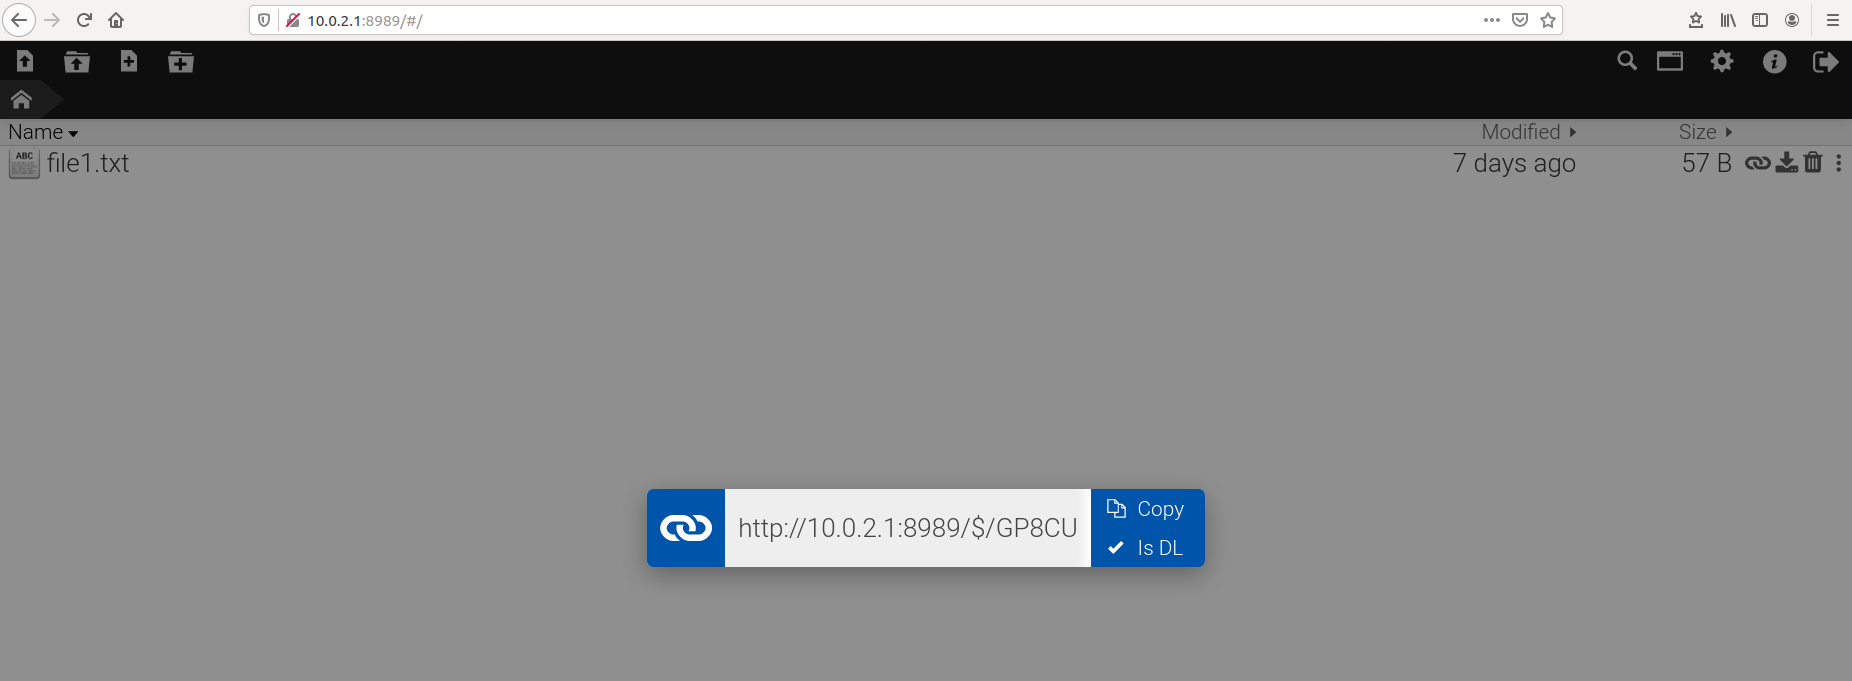
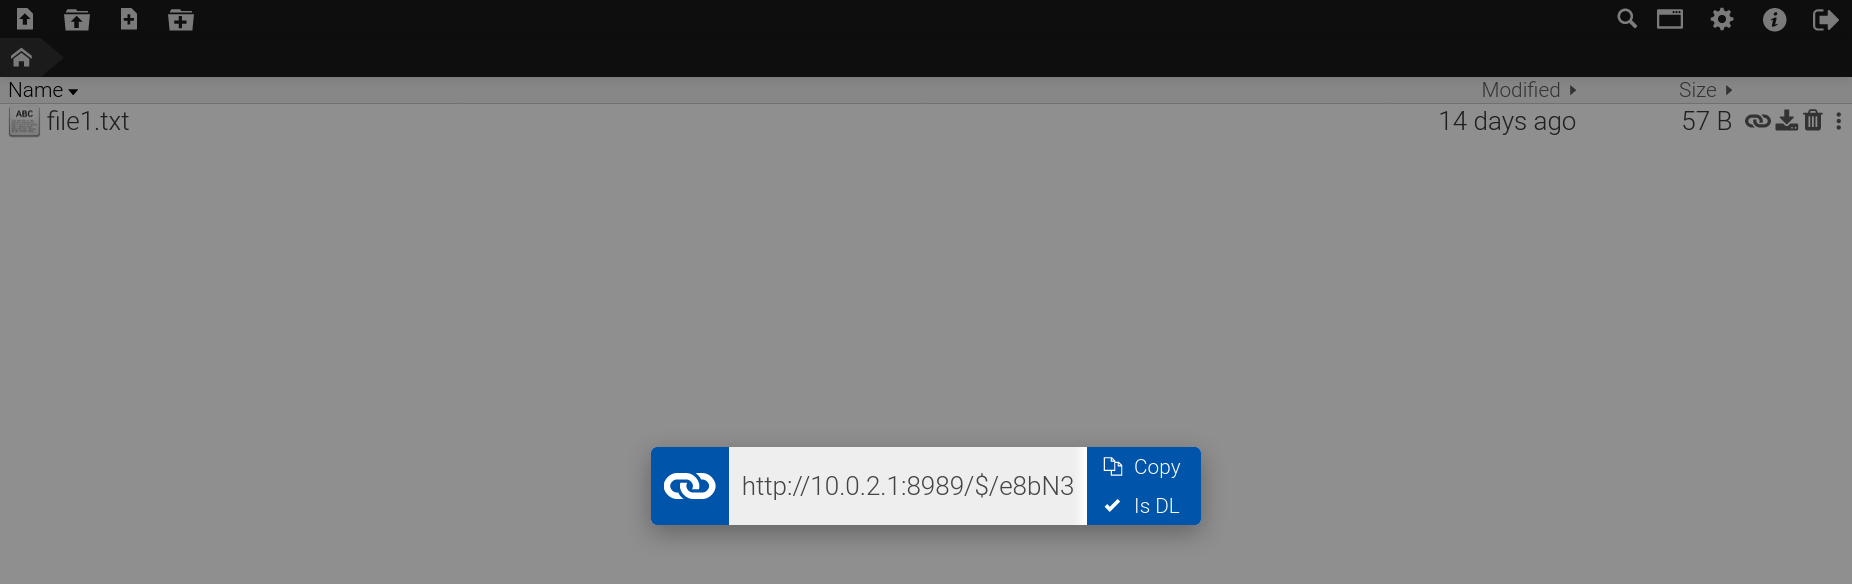
Images + code ssh added

Changed region(s): [[0.0, 0.0, 1.0, 0.2774], [0.3386, 0.7089, 0.6771, 0.9247]]

diff --git a/Docker_commands.md b/Docker_commands.md
@@ -10,6 +10,7 @@ https://hub.docker.com/_/busybox
 ##Otros
 
 iptables -t nat -L
+scp root@10.0.2.1:.droppy/files/file1.txt file1.txt
 
 ### Useful for my project
 
